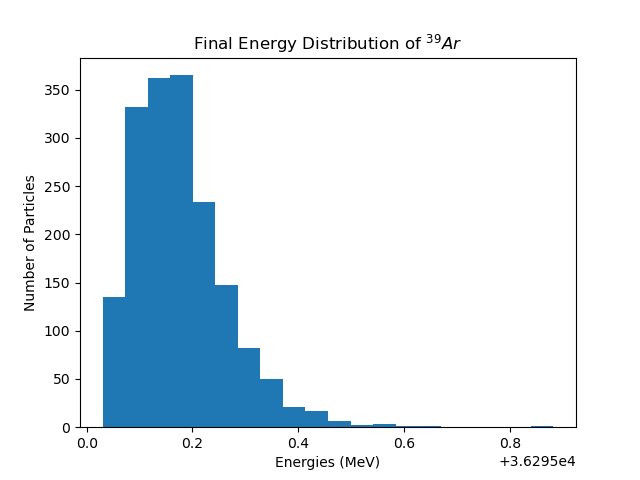
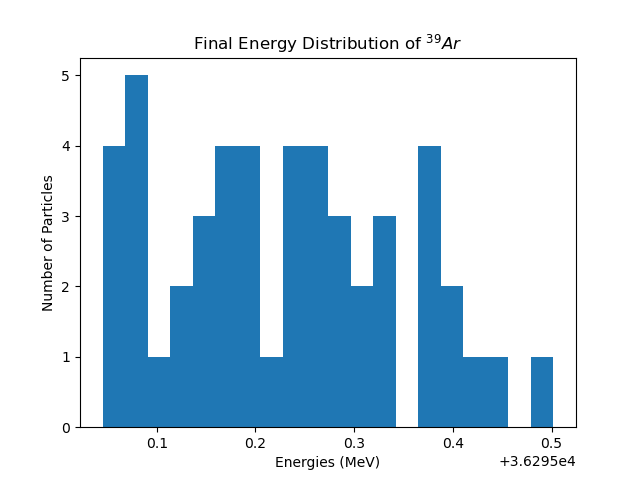
graphed new data set, still unsure of shape

diff --git a/protostar_analysis.py b/protostar_analysis.py
@@ -1,0 +1,126 @@
+import numpy as np
+import matplotlib.pyplot as plt
+
+location = './'
+
+
+#PROBLEM 1
+
+dict_in = {}
+dict_out = {}
+file = open(location + "proneutr_star.ascii")
+
+line = file.readline() #ignore first line of avgflux
+line = file.readline().split()
+while line:
+	ni = int(line[0])
+	nf = int(line[1])
+	for x in range(ni):
+		data = file.readline().split()
+		PDG = data[0]
+		if PDG in dict_in:
+			dict_in[PDG] = dict_in[PDG] + 1
+		else:
+			dict_in[PDG] = 1
+	for x in range(nf):
+		data = file.readline().split()
+		PDG = data[0]
+		if PDG in dict_out:
+			dict_out[PDG] = dict_out[PDG] + 1
+		else:
+			dict_out[PDG] = 1
+	line = file.readline().split()	
+
+dict_symbols = {"11":r"$e^-$", "12":r"$v_e$", "13":r"$μ^-$", "14":r"$v_μ$", 
+		"15":r"$τ^-$", "16":r"$v_τ$", "22":r"$γ$", "2112":r"n", "2212":r"p", 
+		"1000010020":r"d", "1000010030":r"t", "1000020030":r"h", 
+		"1000020040":r"$α$", "1000180400":r"$^{40} Ar$", 
+		"1000190400":"$^{40} K$", 
+		"1000170350":"$^{35} Cl$", "1000190390":"$^{39} K$", 
+		"1000180380":r"$^{38} Ar$", "1000170360":r"$^{36} Cl$",
+		"1000180390":r"$^{39} Ar$", "1000160350":r"$^{35} S$",
+		"1000170380":r"$^{38} Cl$", "1000160340":r"$^{34} S$",
+		"1000190380":r"$^{38} K$", "1000180370":r"$^{37} Ar$"}
+#$ means math mode, r is for correct formatting
+
+x_vals_in = list(dict_symbols[x] for x in dict_in.keys()) #mapping symbols to keys
+x_vals_out = list(dict_symbols[x] for x in dict_out.keys()) #mapping symbols to keys
+#sub these in the graphs to replace 'dict_in.keys()' and out for x values
+
+plt.figure("in")
+plt.bar(x_vals_in, dict_in.values())
+plt.title("Incoming Particles")
+plt.xlabel("Type of Particle (PDG)")
+plt.ylabel("Number of Particles")
+plt.savefig("plt_in.png")
+
+
+plt.figure("out")
+plt.bar(x_vals_out, dict_out.values())
+plt.title("Outgoing Particles")
+plt.xlabel("Type of Particle (PDG)")
+plt.ylabel("Number of Particles")
+plt.tick_params(labelsize=6)
+plt.savefig("plt_out.png")
+
+ 
+
+#PROBLEM 2 & 3 #diff histogram for each diff particle
+
+dict_initial = {} #dictionary mapping PDG's to a list of energies
+dict_final = {}
+file = open(location + "proneutr_star.ascii")
+
+line = file.readline() #ignore first line of avgflux
+line = file.readline().split()
+while line:
+	ni = int(line[0])
+	nf = int(line[1])
+	for x in range(ni):
+		data = file.readline().split()
+		PDG = data[0]
+		Etot = float(data[1])
+		if PDG in dict_initial:
+			dict_initial[PDG].append(Etot)
+		else:
+			dict_initial[PDG] = [Etot]
+	for x in range(nf):
+		data = file.readline().split()
+		PDG = data[0]
+		Etot = float(data[1])
+		if PDG in dict_final:
+			dict_final[PDG].append(Etot)
+		else:
+			dict_final[PDG] = [Etot]
+	line = file.readline().split()
+
+#mapping symbols to keys
+symbols_set_in = list(dict_symbols[x] for x in dict_initial.keys()) 
+symbols_set_out = list(dict_symbols[x] for x in dict_final.keys())
+#replace x axis below for graphing with this set
+
+for pdg_code, energies in dict_initial.items():
+	plt.figure("initial"+ pdg_code)
+	plt.hist(energies, bins = 20)
+	symbol = dict_symbols.get(pdg_code)
+	plt.title("Initial Energy Distribution of " + symbol)
+	plt.xlabel("Energies (MeV)")
+	plt.ylabel("Number of Particles")
+	plt.savefig("initial_" + pdg_code + ".png")
+
+for pdg_code, energies in dict_final.items():
+	plt.figure("final"+ pdg_code)
+	plt.hist(energies, bins = 20)
+	symbol = dict_symbols.get(pdg_code)
+	plt.title("Final Energy Distribution of " + symbol)
+	plt.xlabel("Energies (MeV)")
+	plt.ylabel("Number of Particles")
+	plt.savefig("final_" + pdg_code + ".png")
+
+
+
+# Analyze the following:
+#     1. Counts of interacting particles (different plots for incoming and outgoing particles)
+#     2. Energy distribution (Etot) of initial particles, separated by particle type
+#     3. Energy distribution of produced particles, separated by particle type
+
